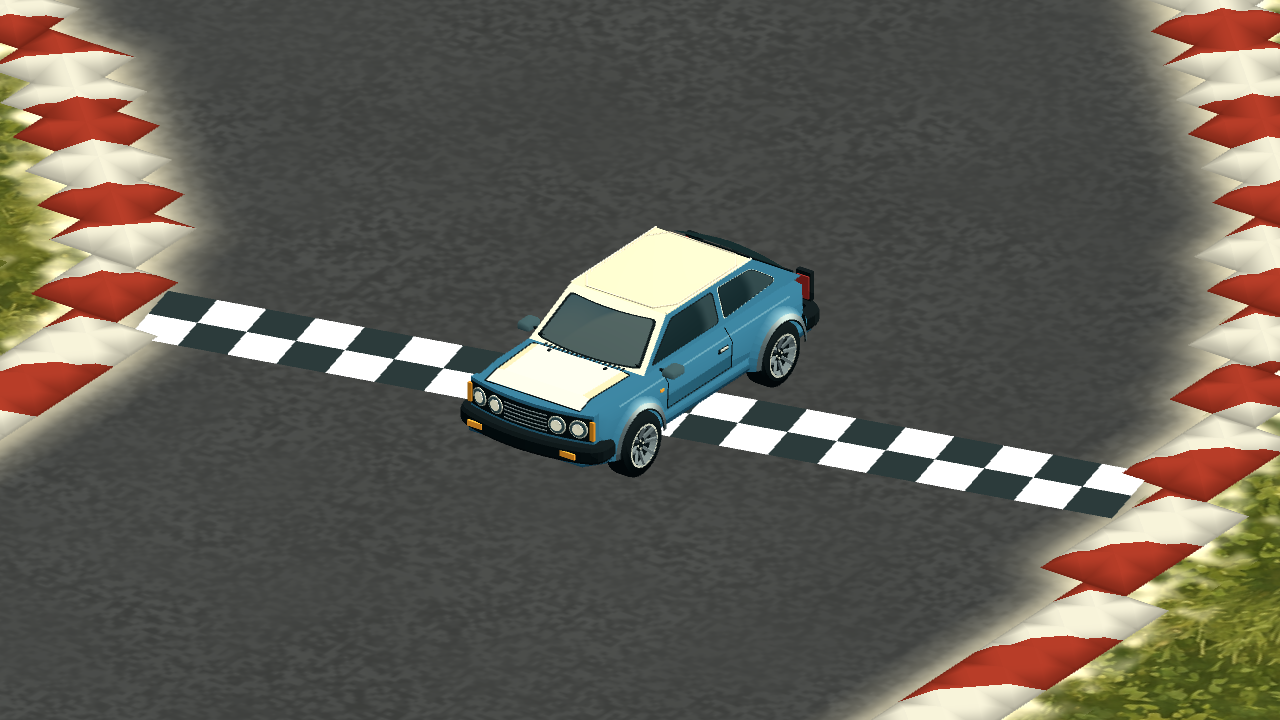
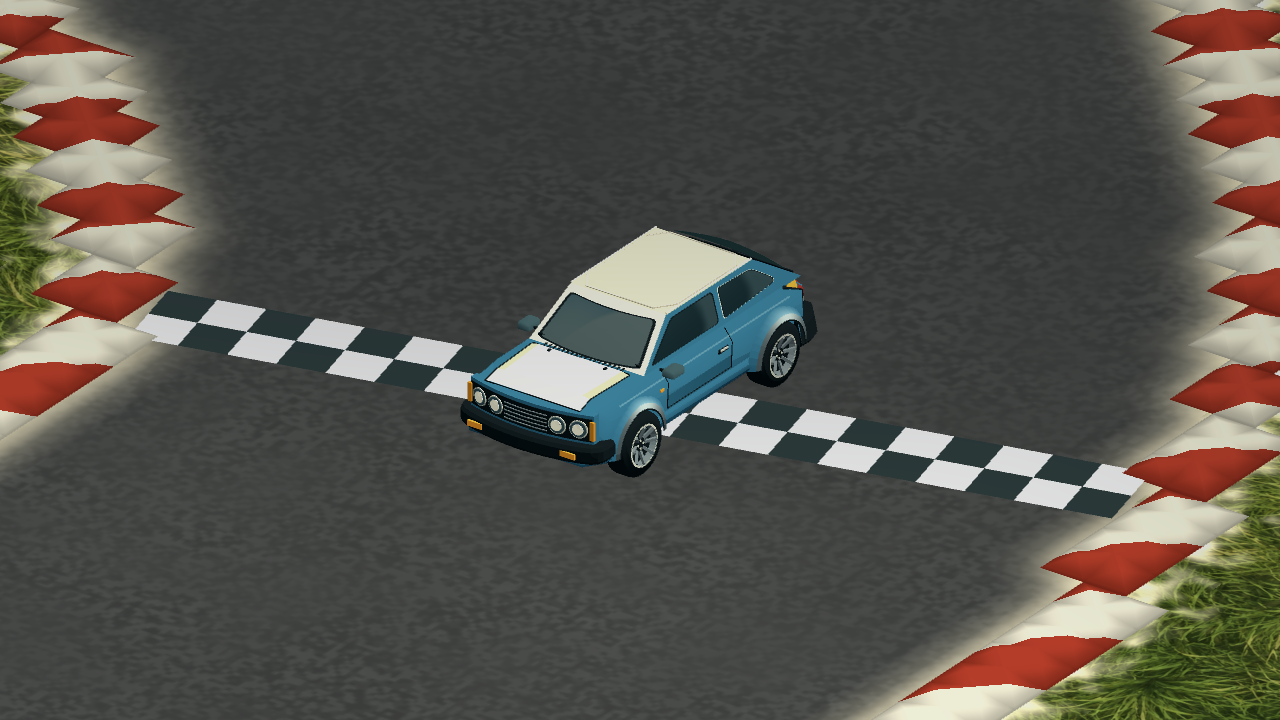
Refine vehicle rear fit and running lights

Changed region(s): [[0.5312, 0.0, 1.0, 1.0], [0.0, 0.0, 0.6562, 0.5806], [0.5, 0.5806, 0.5312, 0.6111]]

diff --git a/docs/COMPACT_REAR_FIT.md b/docs/COMPACT_REAR_FIT.md
@@ -1,0 +1,17 @@
+# Compact rear attachment
+
+Requirements: V01/V04/Q01; owner screenshot reported detached rear lights and bumper.
+
+Changed `game/vehicle/compact_detail.gd`: rear lens and housing surfaces follow the body waist taper and rear corner chamfers, with embedded side walls. Rear bumper sits 0.14 model units inward. Hatch handle also sits against the sloping panel. Removed the obsolete overlapping box lamps from `game/vehicle/car_visual.gd`; shared brake material retains running/braking behavior. Existing unrelated edits in car_visual.gd are preserved. No canonical physics or camera changes.
+
+Actual commands (pinned Godot 4.7.2):
+- `powershell -NoProfile -ExecutionPolicy Bypass -File scripts/dev.ps1 -Action CaptureCompactDetail`: succeeded, 10 desktop views saved.
+- `powershell -NoProfile -ExecutionPolicy Bypass -File scripts/dev.ps1 -Action TestHeadlights`: 56 checks, zero failures.
+
+Inspected [rear](evidence/compact-look/rear.png) and [high rear](evidence/compact-look/high-rear.png) captures; attachments are seated against bodywork. Other captures refreshed by the existing capture command. Documentation: this file, DEVELOPMENT_STATUS.md and PHASE_0_PLAN.md.
+
+No Android export or physical-device test performed. Device attachment was not checked. Remaining acceptance: owner review in motion and on phone. Working-tree change remains reviewable alongside pre-existing unrelated changes; no mixed commit created.
+
+## Lower bumper follow-up
+
+Owner requested more downward extension. Updated only compact_detail.gd geometry: rear profile bottom 0.435 -> 0.320 and top 0.630 -> 0.600 model units. A flatter rear-specific path covers the broad lower valance without bodywork poking through; front profile is unchanged. Refreshed the existing 10 evidence images. Ran `powershell -NoProfile -ExecutionPolicy Bypass -File scripts/dev.ps1 -Action CaptureCompactDetail` twice while refining; both succeeded, final rear image inspected. The lighting checks above belong to the preceding attachment change and were not rerun for this profile-only adjustment. No device test or Android export; owner visual acceptance remains.

diff --git a/docs/REAR_RUNNING_LIGHTS.md b/docs/REAR_RUNNING_LIGHTS.md
@@ -1,0 +1,15 @@
+# Rear running lights
+
+2026-09-29; requirements V01/V04/Q01. Owner requests continuously lit rear lamps with brighter braking.
+
+Changed `game/vehicle/car_visual.gd`: initialize the shared rear-lens material after each vehicle is built, keep emission enabled independently of headlights, and increase running emission from 0.32 to 0.65 and braking from 1.0 to 2.2. Reuses existing meshes/materials without adding lights. All five vehicles use this behavior.
+
+Updated `game/tests/test_headlights.gd` to check initial illumination and persistent daytime illumination; retained braking and release checks. Updated DEVELOPMENT_STATUS.md and docs/PHASE_0_PLAN.md.
+
+Actual commands using pinned Godot 4.7.2:
+- `powershell -NoProfile -ExecutionPolicy Bypass -File scripts/dev.ps1 -Action TestHeadlights`: 61 checks, zero failures.
+- `powershell -NoProfile -ExecutionPolicy Bypass -File scripts/dev.ps1 -Action CaptureHeadlights`: 61 checks, zero failures.
+
+Desktop captures generated and inspected: [running](evidence/taillights-2026-09-29/running.png), [braking](evidence/taillights-2026-09-29/braking.png). The command also refreshes existing headlight on/off captures. Lamps occupy few pixels at ordinary gameplay framing; owner visual acceptance in motion remains.
+
+No Android export or physical-device test performed; device attachment was not checked. Pre-existing working-tree changes preserved; no mixed Git commit created.
